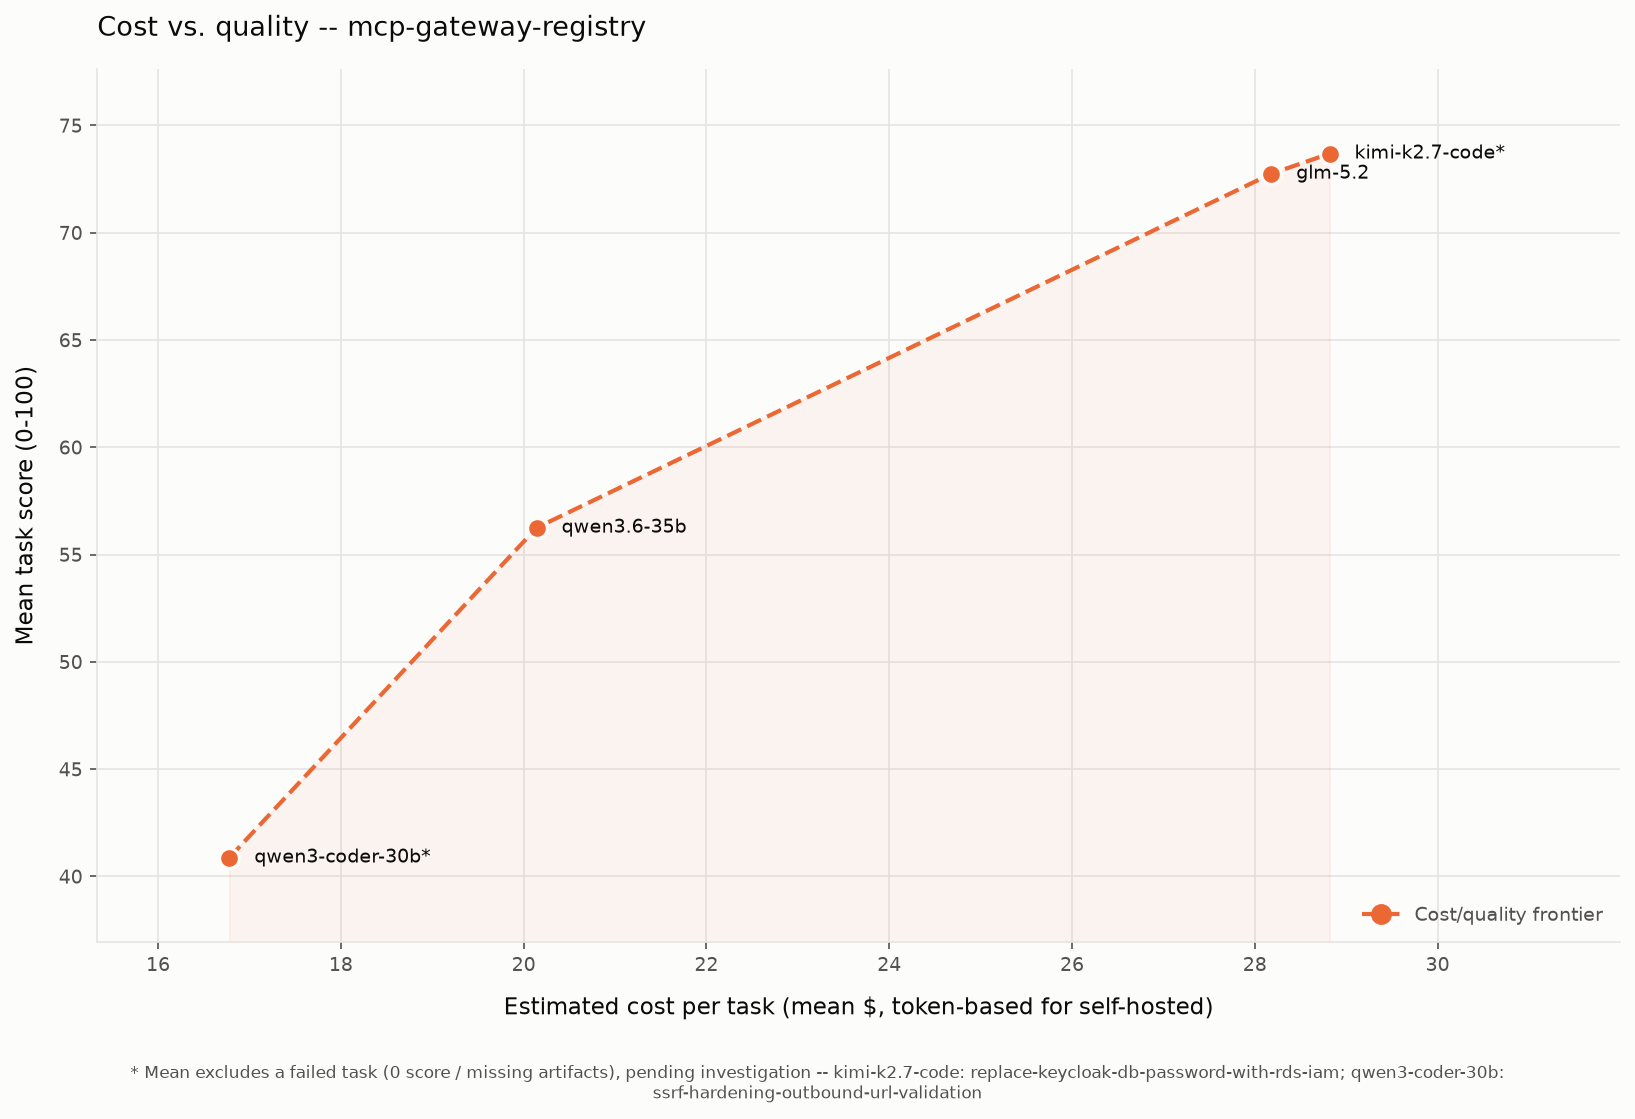
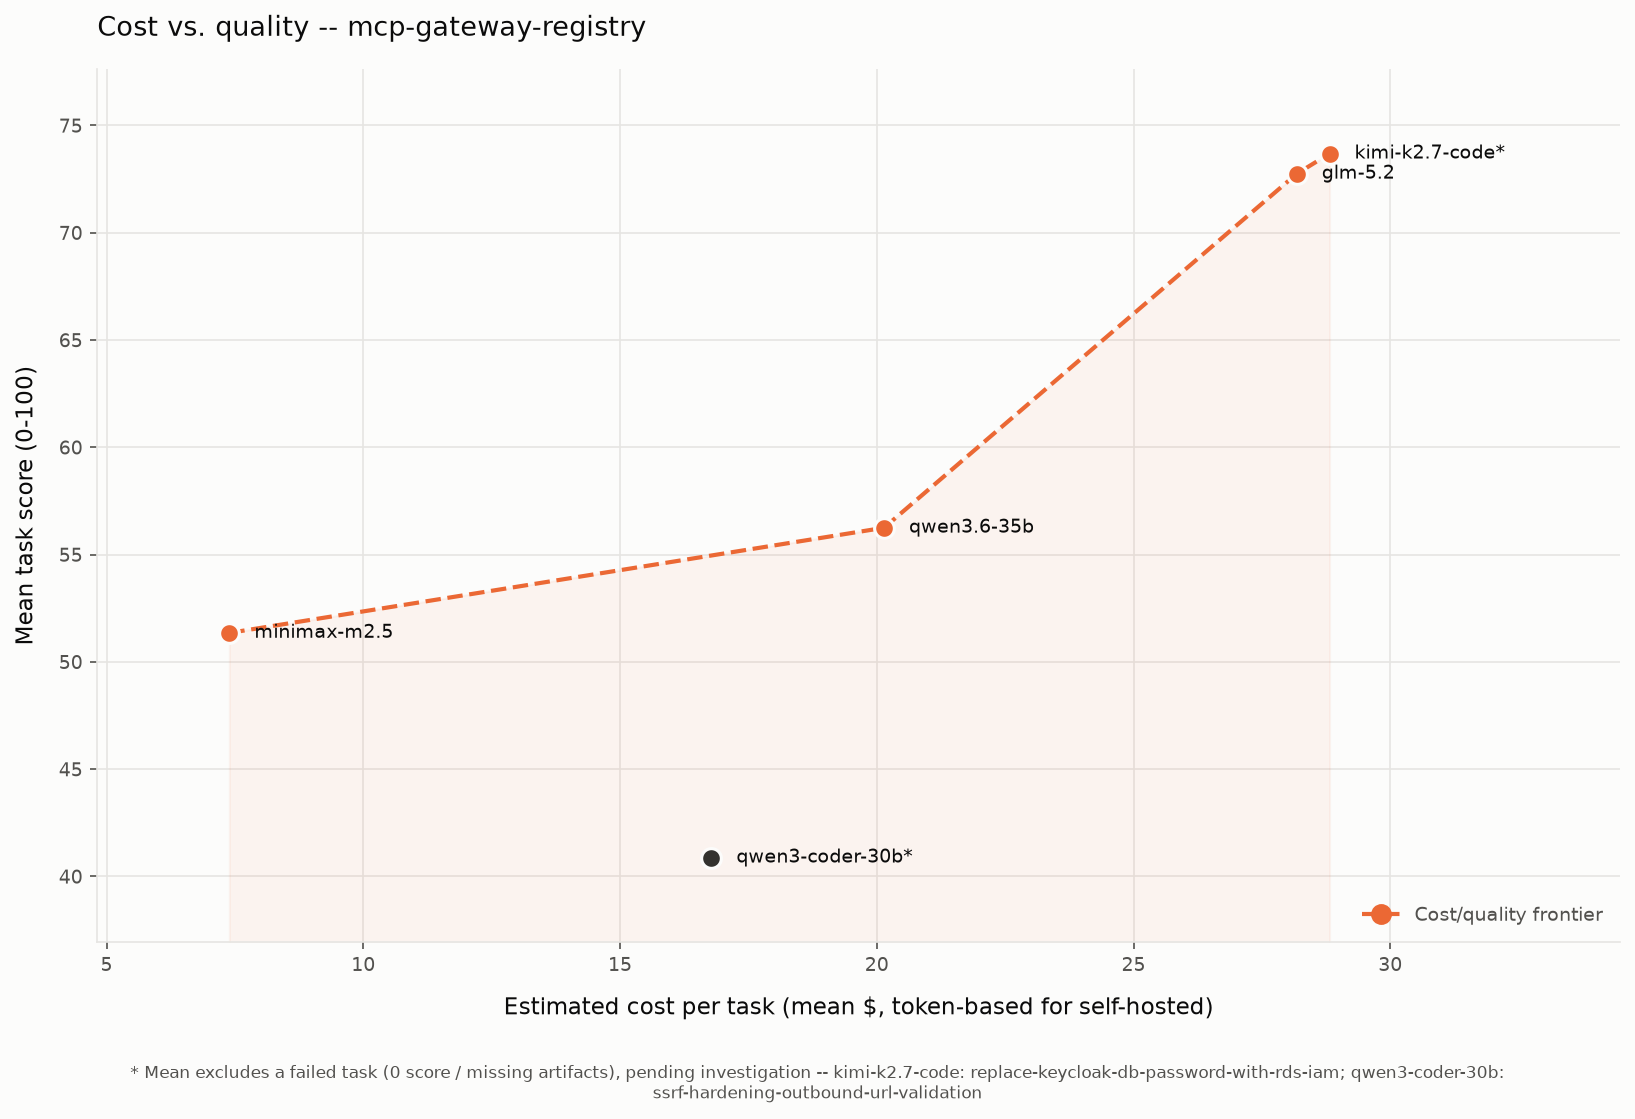
Add MiniMax-M2.5 self-hosted results to the README and chart
MiniMax-M2.5 (self-hosted on 8x H200 / p5en.48xlarge, same codex/gpt-5.6-sol
judge) scored all 5 tasks, mean 51.35, at ~$7.4 estimated per task -- the
cheapest model measured.

- Results table gains a MiniMax-M2.5 column (5/5 scored, no failures).
- Leaderboard adds it at rank 4 (51.35).
- Regenerated cost-quality chart: MiniMax is the low-cost frontier anchor
  (frontier now MiniMax -> Qwen3.6-35B -> GLM-5.2 -> Kimi), and it dominates
  Qwen3-Coder-30B (cheaper AND higher-scoring), which now shows off-frontier.
- Moved MiniMax out of the "coming soon" Bedrock list into "benchmarked so
  far"; added a cost-story commentary bullet.

Params/hardware: shown as 8x H200; param count left as "--" (no model guide
committed yet to verify it).

diff --git a/README.md b/README.md
@@ -107,7 +107,7 @@ To show what the harness produces, we ran it against [agentic-community/mcp-gate
 | 4 | `migrate-ecs-env-vars-to-secrets-manager` | High | Upstream [#1134](https://github.com/agentic-community/mcp-gateway-registry/issues/1134) |
 | 5 | `replace-keycloak-db-password-with-rds-iam` | High | Upstream [#1303](https://github.com/agentic-community/mcp-gateway-registry/issues/1303) |
 
-**Models benchmarked so far (all Path 3, self-hosted on vLLM):** Kimi-K2.7-Code and GLM-5.2 (both on 8x H200 / `p5en.48xlarge`), plus Qwen3.6-35B-A3B, Qwen3-Coder-30B-A3B-Instruct, and Qwen3-Coder-Next (the three Qwen models on `g6e.12xlarge` / 4x L40S). **Coming soon:** Path 1 (Anthropic family on Bedrock -- Claude Opus/Sonnet/Haiku) and Path 2 (open-weight on Bedrock via the LiteLLM proxy -- DeepSeek, Mistral, MiniMax, …).
+**Models benchmarked so far (all Path 3, self-hosted on vLLM):** Kimi-K2.7-Code, GLM-5.2, and MiniMax-M2.5 (all on 8x H200 / `p5en.48xlarge`), plus Qwen3.6-35B-A3B, Qwen3-Coder-30B-A3B-Instruct, and Qwen3-Coder-Next (the three Qwen models on `g6e.12xlarge` / 4x L40S). **Coming soon:** Path 1 (Anthropic family on Bedrock -- Claude Opus/Sonnet/Haiku) and Path 2 (open-weight on Bedrock via the LiteLLM proxy -- DeepSeek, Mistral, …).
 
 ### Scoring rubric (LLM-as-judge)
 
@@ -126,18 +126,18 @@ Each of the 4 artifacts is scored 0-100 by an independent judge session. Within 
 
 All cells are task scores (0-100), the mean of the 4 artifact totals per (task x model). All models were **self-hosted via vLLM** and scored by the same judge (`codex exec`, `gpt-5.6-sol`, high reasoning effort). Hardware differs by model size (see the row under the table). Bold = top score in row. Other hosting paths are **coming soon**.
 
-| Task | Difficulty | Kimi-K2.7-Code | GLM-5.2⁶ | Qwen3.6-35B | Qwen3-Coder-30B | Qwen3-Coder-Next⁴ |
-|------|-----------|---------------:|---------:|------------:|----------------:|:-----------------:|
-| `remove-faiss` | Medium | **75.25** | 66.0 | 59.25 | 49.0 | n/a |
-| `remove-efs-from-terraform-aws-ecs` | Medium | 71.25 | **79.0** | 63.0 | 45.0 | n/a |
-| `ssrf-hardening-outbound-url-validation` | Medium | 72.75 | **76.75** | 55.75 | 0.0 ⁵ | n/a |
-| `migrate-ecs-env-vars-to-secrets-manager` | High | **75.5** | 73.5 | 54.5 | 36.25 | n/a |
-| `replace-keycloak-db-password-with-rds-iam` | High | 0.0 ⁵ | **68.5** | 48.75 | 33.25 | n/a |
-| **Mean (excl. failed task⁵)** | | **73.69** | 72.75 | **56.25** | 40.88 | n/a |
+| Task | Difficulty | Kimi-K2.7-Code | GLM-5.2⁶ | Qwen3.6-35B | MiniMax-M2.5 | Qwen3-Coder-30B | Qwen3-Coder-Next⁴ |
+|------|-----------|---------------:|---------:|------------:|-------------:|----------------:|:-----------------:|
+| `remove-faiss` | Medium | **75.25** | 66.0 | 59.25 | 55.75 | 49.0 | n/a |
+| `remove-efs-from-terraform-aws-ecs` | Medium | 71.25 | **79.0** | 63.0 | 58.5 | 45.0 | n/a |
+| `ssrf-hardening-outbound-url-validation` | Medium | 72.75 | **76.75** | 55.75 | 49.5 | 0.0 ⁵ | n/a |
+| `migrate-ecs-env-vars-to-secrets-manager` | High | **75.5** | 73.5 | 54.5 | 45.0 | 36.25 | n/a |
+| `replace-keycloak-db-password-with-rds-iam` | High | 0.0 ⁵ | **68.5** | 48.75 | 48.0 | 33.25 | n/a |
+| **Mean (excl. failed task⁵)** | | **73.69** | 72.75 | **56.25** | 51.35 | 40.88 | n/a |
 
 The **Mean** row excludes any task that scored 0 -- a genuine model failure (missing artifacts), which is an unresolved anomaly rather than a quality measurement, so it is left out of the average **pending further investigation** and flagged with `⁵`. Per-task 0.0 cells are still shown so the failure is visible; Kimi's mean is over the 4 tasks it completed, Qwen3-Coder-30B's over its 4, and Qwen3.6-35B's over all 5 (no failures).
 
-**Hardware:** Kimi-K2.7-Code (1.06T-param MoE, ~1 TB weights) ran on **8x H200** (`p5en.48xlarge`) at its full **131,072-token (128K) native context window**; GLM-5.2 (744B MoE / 40B active, ~750 GB FP8 weights) ran on the same **8x H200** at a **300K window** with `max_turns=100` (see footnote ⁶); the three Qwen models (3B-active MoE) ran on a single **`g6e.12xlarge`** (4x L40S) at a 200K window. All via vLLM. Note Kimi's 128K window is below the harness's 200K agentic-coding guideline, yet it completed 4 of 5 tasks -- the one failure (`keycloak-rds-iam`) was a turn-cap timeout, not a context overflow.
+**Hardware:** Kimi-K2.7-Code (1.06T-param MoE, ~1 TB weights) ran on **8x H200** (`p5en.48xlarge`) at its full **131,072-token (128K) native context window**; GLM-5.2 (744B MoE / 40B active, ~750 GB FP8 weights) and MiniMax-M2.5 also ran on **8x H200** (`p5en.48xlarge`); the three Qwen models (3B-active MoE) ran on a single **`g6e.12xlarge`** (4x L40S) at a 200K window. All via vLLM. Note Kimi's 128K window is below the harness's 200K agentic-coding guideline, yet it completed 4 of 5 tasks -- the one failure (`keycloak-rds-iam`) was a turn-cap timeout, not a context overflow.
 
 ⁴ Qwen3-Coder-Next (79.6B, ~160 GB weights) **could not be benchmarked on the `g6e.12xlarge`.** There the weights leave room for only a ~16K context window, but agentic coding tasks need 100K-250K input tokens per request, so every task overflows the window on the first prompt. It needs a larger-VRAM node (e.g. `g6e.48xlarge`) to serve a >=200K window. The `/benchmark` skill enforces a 200K-minimum gate by default as a conservative guideline -- Kimi's 128K run shows a window somewhat below 200K can still work when the tasks fit, but 16K cannot. See [self-hosted/vllm/models/qwen3-coder-next.md](self-hosted/vllm/models/qwen3-coder-next.md).
 
@@ -149,7 +149,7 @@ The **Mean** row excludes any task that scored 0 -- a genuine model failure (mis
 
 ![Cost vs. quality scatter: mean estimated cost per task against mean task score, for the self-hosted models, with the cost/quality frontier highlighted](docs/images/cost-quality.png)
 
-Mean estimated cost per task (x, token-based for self-hosted) against mean task score (y), one point per model. All four scored models sit on the cost/quality frontier so far (Qwen3-Coder-Next is omitted -- it produced no scored run on this node). A model's mean excludes any 0-score failed task, matching the table (see footnote ⁵). Regenerate from the run artifacts with `uv run scripts/plot_cost_quality.py` (add `--dark` for the dark theme) from `benchmarks/`.
+Mean estimated cost per task (x, token-based for self-hosted) against mean task score (y), one point per model. The cost/quality frontier runs MiniMax-M2.5 -> Qwen3.6-35B -> GLM-5.2 -> Kimi-K2.7-Code; Qwen3-Coder-30B sits **below** the frontier (dominated -- it costs more than MiniMax yet scores lower), and Qwen3-Coder-Next is omitted (no scored run on this node). A model's mean excludes any 0-score failed task, matching the table (see footnote ⁵). Regenerate from the run artifacts with `uv run scripts/plot_cost_quality.py` (add `--dark` for the dark theme) from `benchmarks/`.
 
 ### Per-model leaderboard (self-hosted, so far)
 
@@ -160,10 +160,11 @@ Mean score is over the tasks each model completed (any 0-score failed task is ex
 | 1 | Kimi-K2.7-Code | 1,058.6B (MoE) | 8x H200 | **73.69** | 4/5 |
 | 2 | GLM-5.2⁶ | 744B (40B) | 8x H200 | **72.75** | 5/5 |
 | 3 | Qwen3.6-35B-A3B | 35.9B (3B) | g6e.12xlarge | **56.25** | 5/5 |
-| 4 | Qwen3-Coder-30B-A3B-Instruct | 30.5B (3B) | g6e.12xlarge | **40.88** | 4/5 |
+| 4 | MiniMax-M2.5 | -- | 8x H200 | **51.35** | 5/5 |
+| 5 | Qwen3-Coder-30B-A3B-Instruct | 30.5B (3B) | g6e.12xlarge | **40.88** | 4/5 |
 | - | Qwen3-Coder-Next | 79.6B (3B) | (needs bigger node) | not viable on g6e.12xlarge | 0 |
 
-**Coming soon:** Claude Opus/Sonnet/Haiku (Path 1, Bedrock) and the open-weight Bedrock models via the LiteLLM proxy (Path 2 -- DeepSeek, Mistral, MiniMax, …).
+**Coming soon:** Claude Opus/Sonnet/Haiku (Path 1, Bedrock) and the open-weight Bedrock models via the LiteLLM proxy (Path 2 -- DeepSeek, Mistral, …).
 
 ### What the data says (so far)
 
@@ -171,6 +172,7 @@ These are early self-hosted numbers on differing hardware; treat them as a start
 
 - **Kimi-K2.7-Code leads on the tasks it completed** (73.69 over 4), ahead of Qwen3.6-35B (56.25) -- but it needs a far larger box (8x H200 vs a single g6e.12xlarge) and it failed one task outright (a turn-cap timeout on `keycloak-rds-iam`, excluded from its mean pending investigation).
 - **Qwen3.6-35B is the value story:** the only model here that completed all five tasks, on one mid-range GPU node, at a mean of 56.25 -- roughly median on this judge's calibration, and it never failed a task.
+- **MiniMax-M2.5 is the cost story:** at ~$7.4 estimated per task it is the cheapest model measured (roughly a quarter of the ~$28-29 the trillion-parameter models cost), yet it scores 51.35 over 5/5 tasks -- on the cost/quality frontier and comfortably ahead of the more expensive Qwen3-Coder-30B, which it dominates.
 - **The judge is strict, and these are open-weight models on design (not coding) tasks.** Scores in the 45-75 range reflect artifacts that are serviceable but often light on the specificity and risk-analysis the rubric rewards; this is expected when smaller/coder-tuned models are asked to produce design documentation rather than code.
 - **The two 0s are real, not judging noise.** Both were the model exhausting its 60-turn budget without producing the full artifact set -- Qwen3-Coder-30B in particular kept trying to *implement* the SSRF fix instead of *designing* it. The harness caps turns and the judge scores the shortfall honestly.
 - **MoE economics are the reason to self-host these.** Every model here is a mixture-of-experts, so per-token compute (and cost) tracks the active-expert count, not the total -- the regime where a fixed-cost GPU node can beat per-token API pricing under load.
